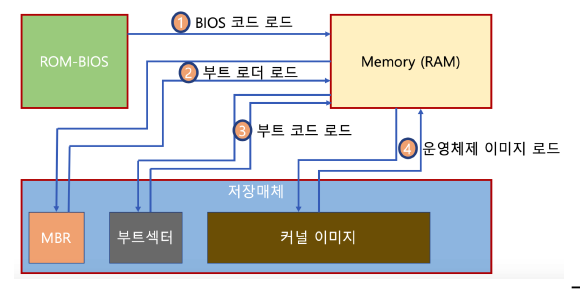
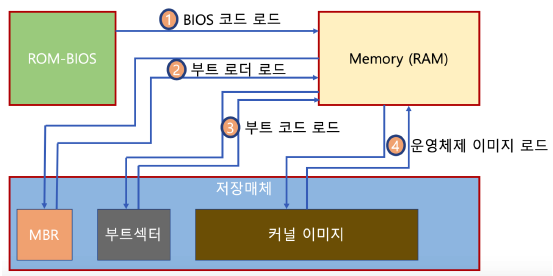
style: bold추가 및 이미지 업데이트

Changed region(s): [[0.0, 0.029, 1.0, 0.9855], [0.9837, 0.9855, 1.0, 1.0]]

diff --git a/10.부팅.md b/10.부팅.md
@@ -4,6 +4,6 @@
 ### 부팅 과정
 ![Boot Sequence](./img/bootSequence.png)
 
-1. PC의 전원이 켜지면 ROM에 들어있는 BIOS가 로드된다. BIOS는 컴퓨터에 연결된 저장 매체에서 설정된 순서대로 부트 로더들을 불러 온다.
-2. 부트로더는 저장 매체에서 부팅이 가능한 파티션 정보를 불러오는 역할을 한다. 이는 첫 섹터 속 MBR(Master Boot Record)에 저장되어있다. MBR 섹터의 마지막 2바이트는 정상적인 MBR을 알려주는 0x55AA값을 가지는데, 이는 '이 디스크에 부트에 필요한 프로그램이 있다'는 것을 의미한다.
-3. 파티션이 부팅이 가능하다면, 부트로더는 해당 파티션의 VBR(Volume Boot Record)을 읽어 커널 이미지를 메모리에 올리면서 운영체제에서 정의된 부팅 과정을 수행한다. 
+1. PC의 전원이 켜지면 ROM에 들어있는 **BIOS**가 로드된다. BIOS는 컴퓨터에 연결된 저장 매체에서 설정된 순서대로 **부트 로더**들을 불러 온다.
+2. 부트로더는 저장 매체에서 **부팅이 가능한 파티션 정보**를 불러오는 역할을 한다. 이는 파티션의 첫 섹터 속 **MBR(Master Boot Record)** 에 저장되어있다. MBR 섹터의 마지막 2바이트는 정상적인 MBR을 알려주는 0x55AA값을 가지는데, 이는 **'이 디스크에 부트에 필요한 프로그램이 있다'** 는 것을 의미한다.
+3. 파티션이 부팅이 가능하다면, 부트로더는 해당 파티션의 **VBR(Volume Boot Record)** 을 읽어 **커널 이미지**를 메모리에 올리면서 운영체제에서 정의된 부팅 과정을 수행한다. 
